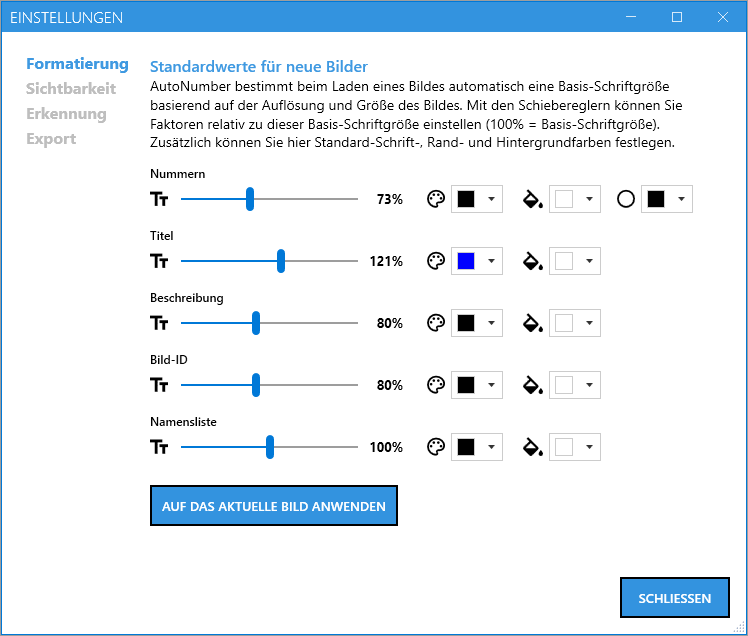
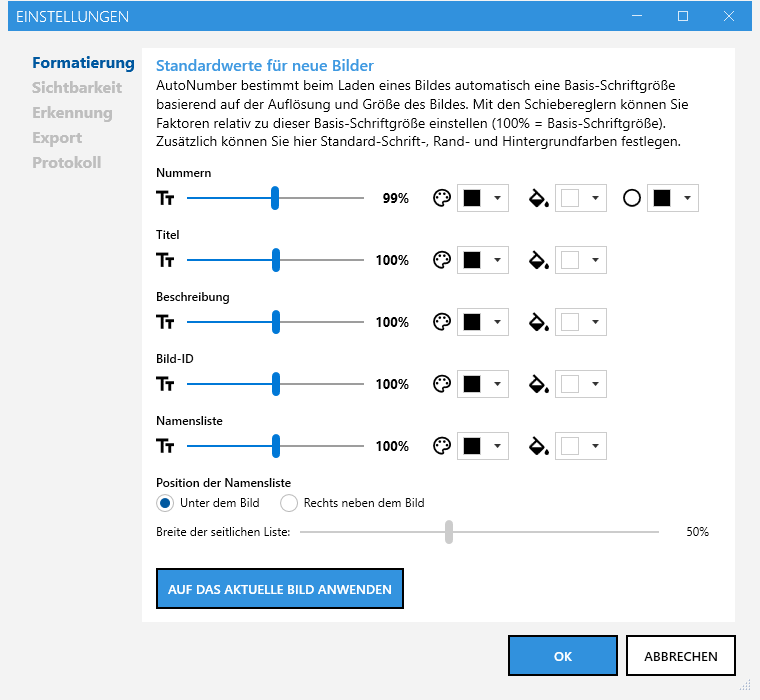
Manual: document the 2.5 features and refresh the screenshots
Chapter 7 gets the side-placement option with a picture of the result
and of the names formatting dialog, chapter 6.4 a picture of the number
label dialog, 10.1 the placement default, and 10.5 the new Protokoll tab
and the Hilfe menu entry. All five settings-tab pictures are retaken
from the same build so they show the same five-entry strip. The old
list-only picture in chapter 7 is dropped as redundant.

diff --git a/docs/Manual/index.md b/docs/Manual/index.md
@@ -153,6 +153,9 @@ Wenn Sie das Bild gar nicht in Reihen aufteilen möchten, löschen Sie im Reihen
 
 Zusätzlich enthält dieser Dialog ein 3x3-Raster **Position des Labels im Gesicht**, mit dem Sie festlegen, an welcher Stelle des erkannten Gesichts das Nummern-Label zentriert wird. Anders als in den Einstellungen (siehe [Kapitel 10.3](#103-erkennung)) wirkt sich die Auswahl hier nur auf das **aktuell geöffnete Bild** aus und ändert nicht den Standardwert für künftig geöffnete Bilder. Über den Button **„Neu Erkennen"** direkt daneben wiederholen Sie die Gesichtserkennung mit der gewählten Position; sind bereits Namen eingetragen, erscheint vorher dieselbe Sicherheitsabfrage wie unter [6.1](#61-automatische-erkennung). Über **„Als Standard übernehmen"** lässt sich die aktuelle Auswahl – wie auch Größe und Farben – als neuer Standardwert für künftig geöffnete Bilder speichern.
 
+![Formatierungsdialog der Nummern-Label](Pictures/06d_nummern_formatieren.png)
+<!-- Zeigt: Formatierungsdialog der Nummern mit Schrift/Farben, 3x3-Raster, "Neu Erkennen" und dem Schalter "Mit der untersten Reihe beginnen". Screenshot für V2.5 aufgenommen. -->
+
 Darunter finden Sie das Kontrollkästchen **„Mit der untersten Reihe beginnen"** (siehe [6.3](#63-reihenmodus)). Es gilt nur für das **aktuell geöffnete Bild**; im Gegensatz zur Label-Position wirkt es sofort: Die Nummern werden unmittelbar neu vergeben, und die Namensliste zieht direkt nach – ein „Neu Erkennen" ist dafür nicht nötig und die eingetragenen Namen bleiben erhalten. Die gewählte Richtung wird beim Speichern **im Bild mitgespeichert**: Öffnen Sie das Bild später wieder, behält es seine Nummerierung, auch wenn der Standardwert inzwischen ein anderer ist.
 
 ---
@@ -167,8 +170,13 @@ Rechts im Bereich **Namensliste**:
 
 Über das Augen-Symbol blenden Sie die Namensliste ein/aus, über das Zahnrad-Symbol öffnen Sie die Formatierung (Schrift/Farben/Größe). Dort legen Sie auch die **Zahl der Spalten** (1–4) fest, in die die Namensliste in der Bildvorschau und im Export (JPG/PDF) aufgeteilt wird. Die Eingabetabelle im Text-/Listenbereich bleibt davon unverändert und zeigt weiterhin nur die zwei Spalten *Nr.* und *Name*.
 
-![Namensliste im Text-/Listenbereich](Pictures/07_namensliste.png)
-<!-- Zeigt: rechte Spalte mit ausgefüllter Namensliste, Augen- und Zahnrad-Icon sichtbar -->
+![Formatierungsdialog der Namensliste](Pictures/07c_namensliste_formatieren.png)
+<!-- Zeigt: Formatierungsdialog der Namensliste mit Schrift/Farben, Spalten, Reihentrenner, Reihentext, Position und Breite. Screenshot für V2.5 aufgenommen. -->
+
+**Position der Namensliste:** Standardmäßig steht die Namensliste unter dem Bild. Alternativ lässt sie sich **rechts neben das Bild** setzen – praktisch bei Hochformat-Fotos oder wenn das Ergebnis eher breit als hoch werden soll. Position und Breite der seitlichen Liste (15–100 % der Bildbreite) stellen Sie im Formatierungsdialog der Namensliste für das aktuelle Bild ein; über „Als Standard übernehmen" oder im Reiter *Formatierung* der Einstellungen (siehe [10.1](#101-formatierung)) wird die Wahl zum Standard für neu geöffnete Bilder. Überschrift und Beschreibung erstrecken sich dann über Bild und Liste, die Bild-ID bleibt unter dem Bild. Ist die Liste länger als das Bild hoch ist, wird das Ergebnis entsprechend höher.
+
+![Namensliste rechts neben dem Bild](Pictures/07b_namensliste_seitlich.png)
+<!-- Zeigt: Bildvorschau mit nummeriertem Gruppenfoto und der Namensliste (mit Reihentrennern) rechts daneben. Screenshot für V2.5 aufgenommen. -->
 
 ---
 
@@ -244,10 +252,12 @@ Für jeden der folgenden Blöcke lassen sich Schriftgröße, Schriftfarbe und Hi
 - Bild-ID
 - Namensliste
 
+Unter der Namensliste legen Sie außerdem die **Position der Namensliste** (unter dem Bild oder rechts daneben) und die Breite der seitlichen Liste als Standard für neue Bilder fest (siehe [Kapitel 7](#7-namensliste)).
+
 Der Button **„Auf das aktuelle Bild anwenden"** überträgt alle hier eingestellten Standardwerte sofort auf das gerade geöffnete Bild.
 
 ![Einstellungen – Tab Formatierung](Pictures/10a_einstellungen_formatierung.png)
-<!-- Zeigt: Formatierung-Tab mit den Schriftgrößen-/Farbreglern für Nummern, Titel, Beschreibung, Bild-ID, Namensliste -->
+<!-- Zeigt: Formatierung-Tab mit den Schriftgrößen-/Farbreglern für Nummern, Titel, Beschreibung, Bild-ID, Namensliste sowie Position und Breite der Namensliste. Screenshot für V2.5 neu aufgenommen (fünf Reiter). -->
 
 ### 10.2 Sichtbarkeit
 
@@ -261,7 +271,7 @@ Legt fest, welche Elemente bei neu geöffneten Bildern standardmäßig sichtbar 
 Diese Einstellungen wirken sich nur auf neue Bilder aus; die Sichtbarkeit lässt sich pro Bild jederzeit über die Augen-Symbole im Text-/Listenbereich individuell anpassen. Der Button **„Anwenden"** überträgt die gewählten Standardwerte sofort auf das gerade geöffnete Bild.
 
 ![Einstellungen – Tab Sichtbarkeit](Pictures/10b_einstellungen_sichtbarkeit.png)
-<!-- Zeigt: Sichtbarkeit-Tab mit den vier Toggle-Switches -->
+<!-- Zeigt: Sichtbarkeit-Tab mit den vier Toggle-Switches. Screenshot für V2.5 neu aufgenommen (fünf Reiter). -->
 
 ### 10.3 Erkennung
 
@@ -278,7 +288,7 @@ Die Gesichtserkennung läuft vollständig lokal auf Ihrem Rechner: Es werden kei
 Für Nutzer mit technischem Interesse: eine ausführliche Erklärung des Verfahrens findet sich im offiziellen [OpenCV-Beitrag zu YuNet](https://docs.opencv.org/4.x/df/d20/classcv_1_1FaceDetectorYN.html).
 
 ![Einstellungen – Tab Erkennung](Pictures/10c_einstellungen_erkennung.png)
-<!-- Zeigt: Erkennung-Tab mit Gesichts-/Reihenerkennung-Toggles, 3x3-Anker-Raster und dem Schalter "Mit der untersten Reihe beginnen" (ohne "Neu Erkennen"-Button). Screenshot für V2.4.0 neu aufgenommen. -->
+<!-- Zeigt: Erkennung-Tab mit Gesichts-/Reihenerkennung-Toggles, 3x3-Anker-Raster und dem Schalter "Mit der untersten Reihe beginnen" (ohne "Neu Erkennen"-Button). Screenshot für V2.5 neu aufgenommen (fünf Reiter). -->
 
 ### 10.4 Export
 
@@ -288,13 +298,19 @@ Für Nutzer mit technischem Interesse: eine ausführliche Erklärung des Verfahr
 - **CSV (Excel) Daten** / **JSON Daten:** aktiviert den zusätzlichen Metadaten-Export beim Speichern (siehe [Kapitel 11](#11-csvjson-metadaten-export)).
 
 ![Einstellungen – Tab Export](Pictures/10d_einstellungen_export.png)
+<!-- Zeigt: Export-Tab mit Standardformat, Suffix, Ausgabeordner und den CSV/JSON-Schaltern. Screenshot für V2.5 neu aufgenommen (fünf Reiter). -->
 
 ### 10.5 Protokoll
 
 AutoNumber hält die wichtigsten Schritte – geöffnete und gespeicherte Dateien, gefundene AutoNum-Daten, erkannte Gesichter, Warnungen und Fehler – in einer Protokolldatei fest. Sie enthält keine Bildinhalte oder Namen, nur Dateinamen und technische Angaben. Wenn etwas nicht wie erwartet funktioniert, hilft diese Datei bei der Fehlersuche: Bitte fügen Sie sie einer Fehlermeldung bei. Über **Hilfe → Protokolldatei öffnen** wird die aktuelle Datei im Standard-Texteditor geöffnet.
 
+![Hilfe-Menü mit Protokolldatei öffnen](Pictures/12_hilfe_menu.png)
+
 - **Protokoll schreiben:** schaltet die Protokolldatei ein oder aus (Standard: ein).
 - **Speicherort der Protokolldatei:** leer lassen für den Standard-Speicherort `%AppData%\AutoNum\autonum.log`, oder über **Durchsuchen...** eine andere Datei wählen. Wird die Datei größer als etwa 1 MB, wird sie beim nächsten Programmstart als `autonum.log.1` beiseitegelegt und eine neue begonnen.
+
+![Einstellungen – Tab Protokoll](Pictures/10e_einstellungen_protokoll.png)
+<!-- Zeigt: Protokoll-Tab mit dem Schalter "Protokoll schreiben" und dem Speicherort der Protokolldatei. Screenshot für V2.5 aufgenommen. -->
 
 ---
 

diff --git a/docs/Manual/MANUAL_EN.md b/docs/Manual/MANUAL_EN.md
@@ -152,6 +152,8 @@ Opens the display settings for the numbers (size, font, border and background co
 
 This dialog also includes a 3×3 **label position on the face** grid, letting you choose where the number label is centered within the detected face. Unlike the same grid in Settings (see [Chapter 10.3](#103-detection)), your choice here only affects the **currently open image** and doesn't change the default used for future images. The **"Redetect"** button right next to it reruns face detection with the chosen position; if names have already been entered, the same confirmation prompt from [6.1](#61-automatic-detection) appears first. Use **"Use as default"** to save the current selection — along with size and colors — as the new default for future images.
 
+![Number label formatting dialog](Pictures/06d_nummern_formatieren.png)
+
 Below it you'll find the **"Start with the bottom row"** checkbox (see [6.3](#63-row-mode)). It applies to the **currently open image** only and, unlike the label position, takes effect immediately: the numbers are reassigned right away and the name list follows along – no "Redetect" needed, and the names you've entered are preserved. The chosen direction is **stored in the image** when you save: reopen it later and it keeps its numbering, even if the default has changed in the meantime.
 
 ---
@@ -166,7 +168,11 @@ In the **Name list** area on the right:
 
 Use the eye icon to show/hide the name list, and the gear icon to open formatting (font/colors/size). There you also set the **number of columns** (1–4) that the name list is split into in the image preview and export (JPG/PDF). The input table in the text/list area itself is unaffected and still shows only the two columns *No.* and *Name*.
 
-![Name list in the text/list area](Pictures/07_namensliste.png)
+![Name list formatting dialog](Pictures/07c_namensliste_formatieren.png)
+
+**Name list position:** By default the name list sits below the image. Alternatively it can go **to the right of the image** — handy for portrait photos or when the result should be wide rather than tall. Set the position and the width of the side list (15–100 % of the image width) for the current image in the name list's formatting dialog; "Use as default" or the *Formatting* tab in Settings (see [10.1](#101-formatting)) makes the choice the default for newly opened images. The title and description then span image and list, the image ID stays below the image. If the list is taller than the image, the result grows accordingly.
+
+![Name list to the right of the image](Pictures/07b_namensliste_seitlich.png)
 
 ---
 
@@ -240,6 +246,8 @@ For each of the following blocks you can set font size, font color, and backgrou
 - Image ID
 - Name list
 
+Below the name list you also set the **name list position** (below the image or to its right) and the width of the side list as the default for new images (see [Chapter 7](#7-name-list)).
+
 The **"Apply to current image"** button immediately applies all default values set here to the currently open image.
 
 ![Settings – Formatting tab](Pictures/10a_einstellungen_formatierung.png)
@@ -286,8 +294,12 @@ For technically interested users: a detailed explanation of the method is availa
 
 AutoNumber records its main steps — files opened and saved, AutoNum data found, faces detected, warnings and errors — in a log file. It contains no image content or names, only file names and technical details. If something doesn't work as expected, this file helps with troubleshooting: please attach it to your bug report. **Help → Open log file** opens the current file in your default text editor.
 
+![Help menu with Open log file](Pictures/12_hilfe_menu.png)
+
 - **Write log:** turns the log file on or off (default: on).
 - **Log file location:** leave empty for the default location `%AppData%\AutoNum\autonum.log`, or pick another file via **Browse...**. Once the file grows beyond about 1 MB, it is set aside as `autonum.log.1` at the next start and a new one is begun.
+
+![Settings – Log tab](Pictures/10e_einstellungen_protokoll.png)
 
 ---
 
